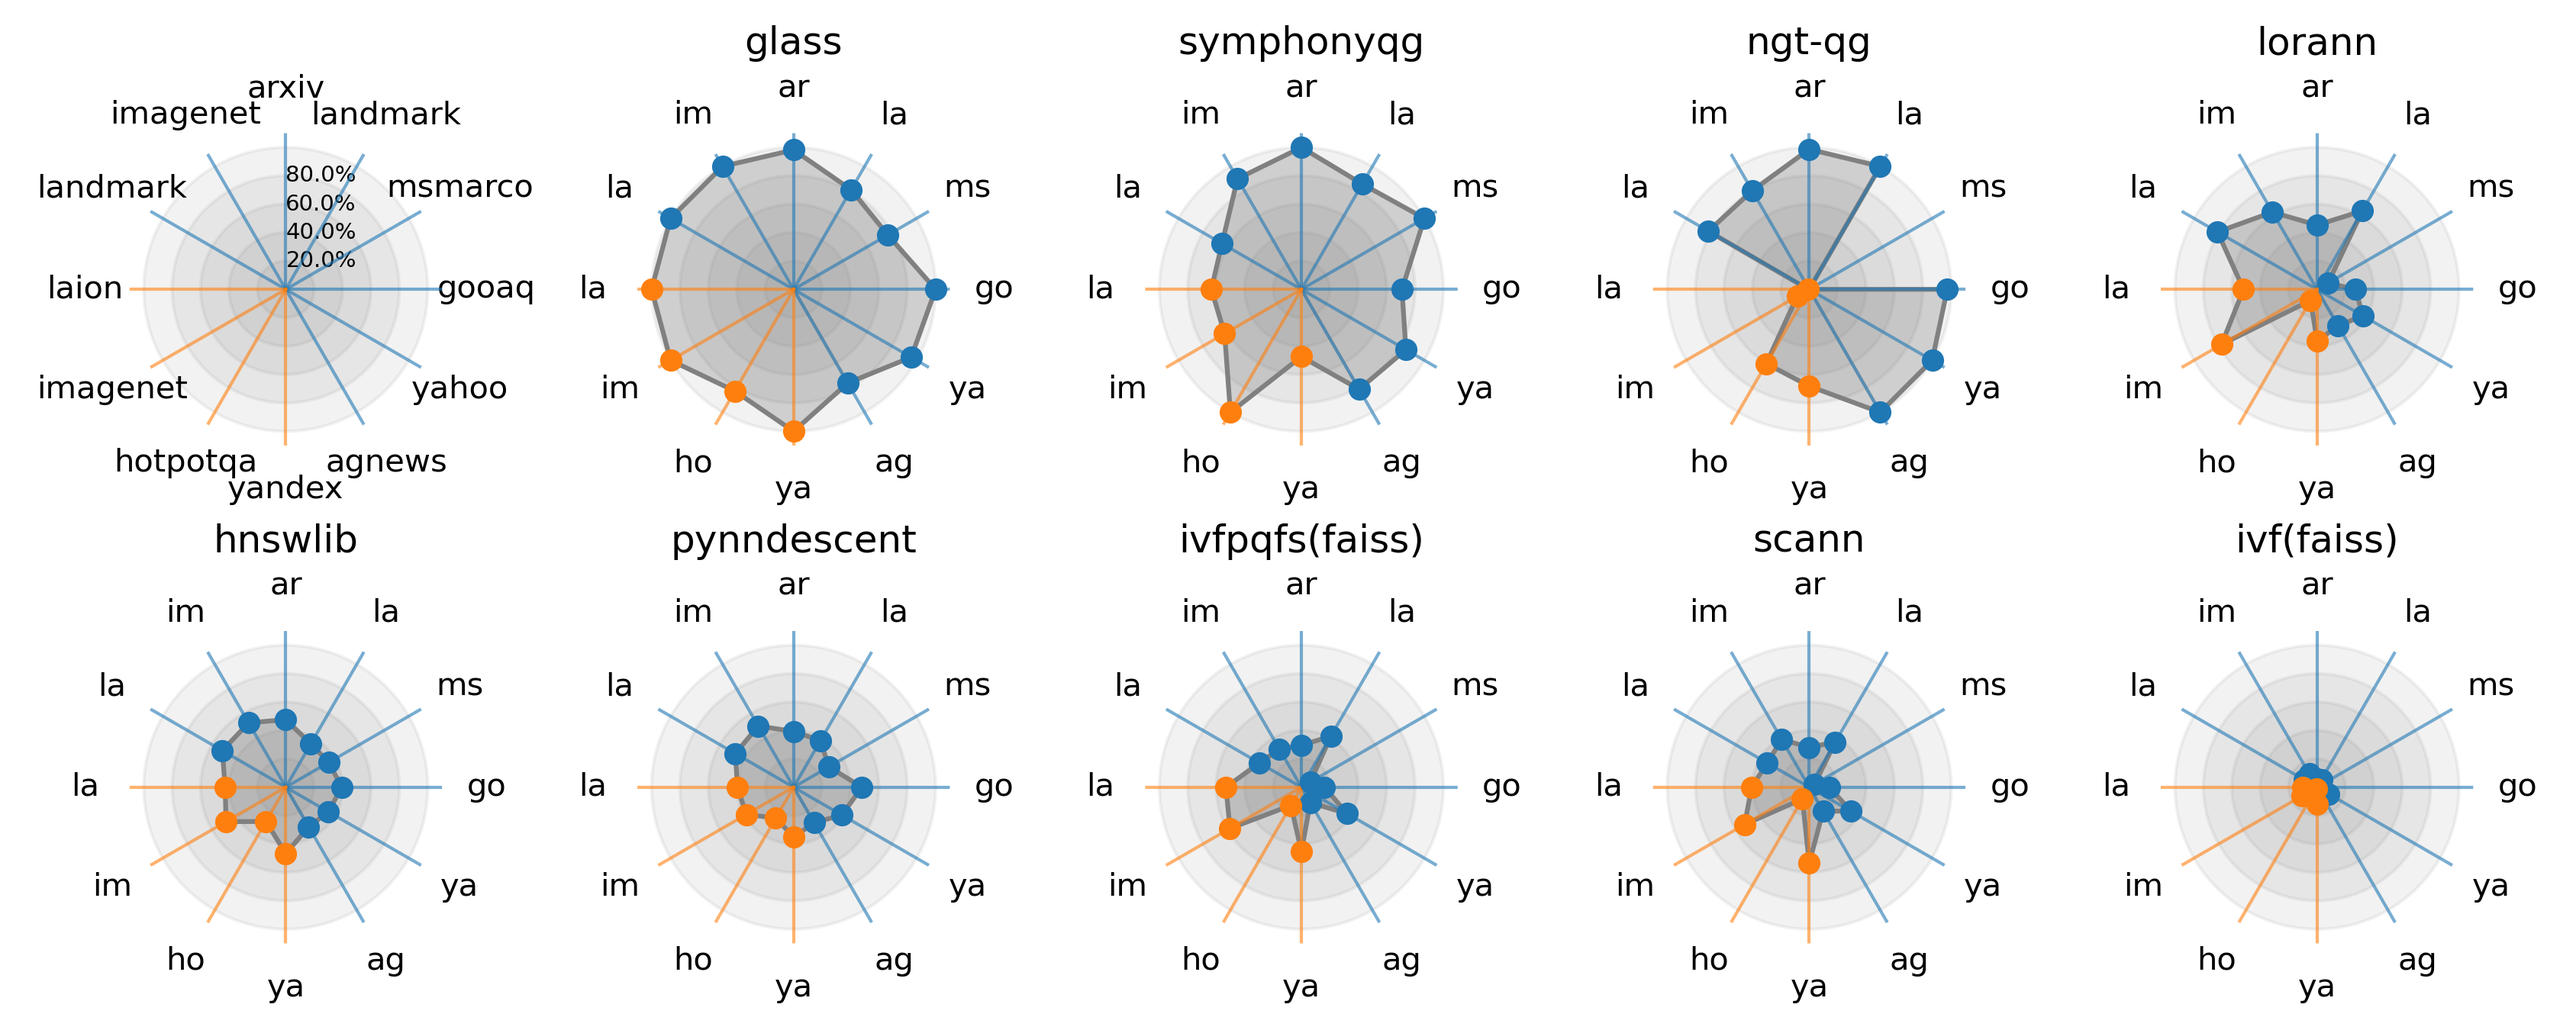
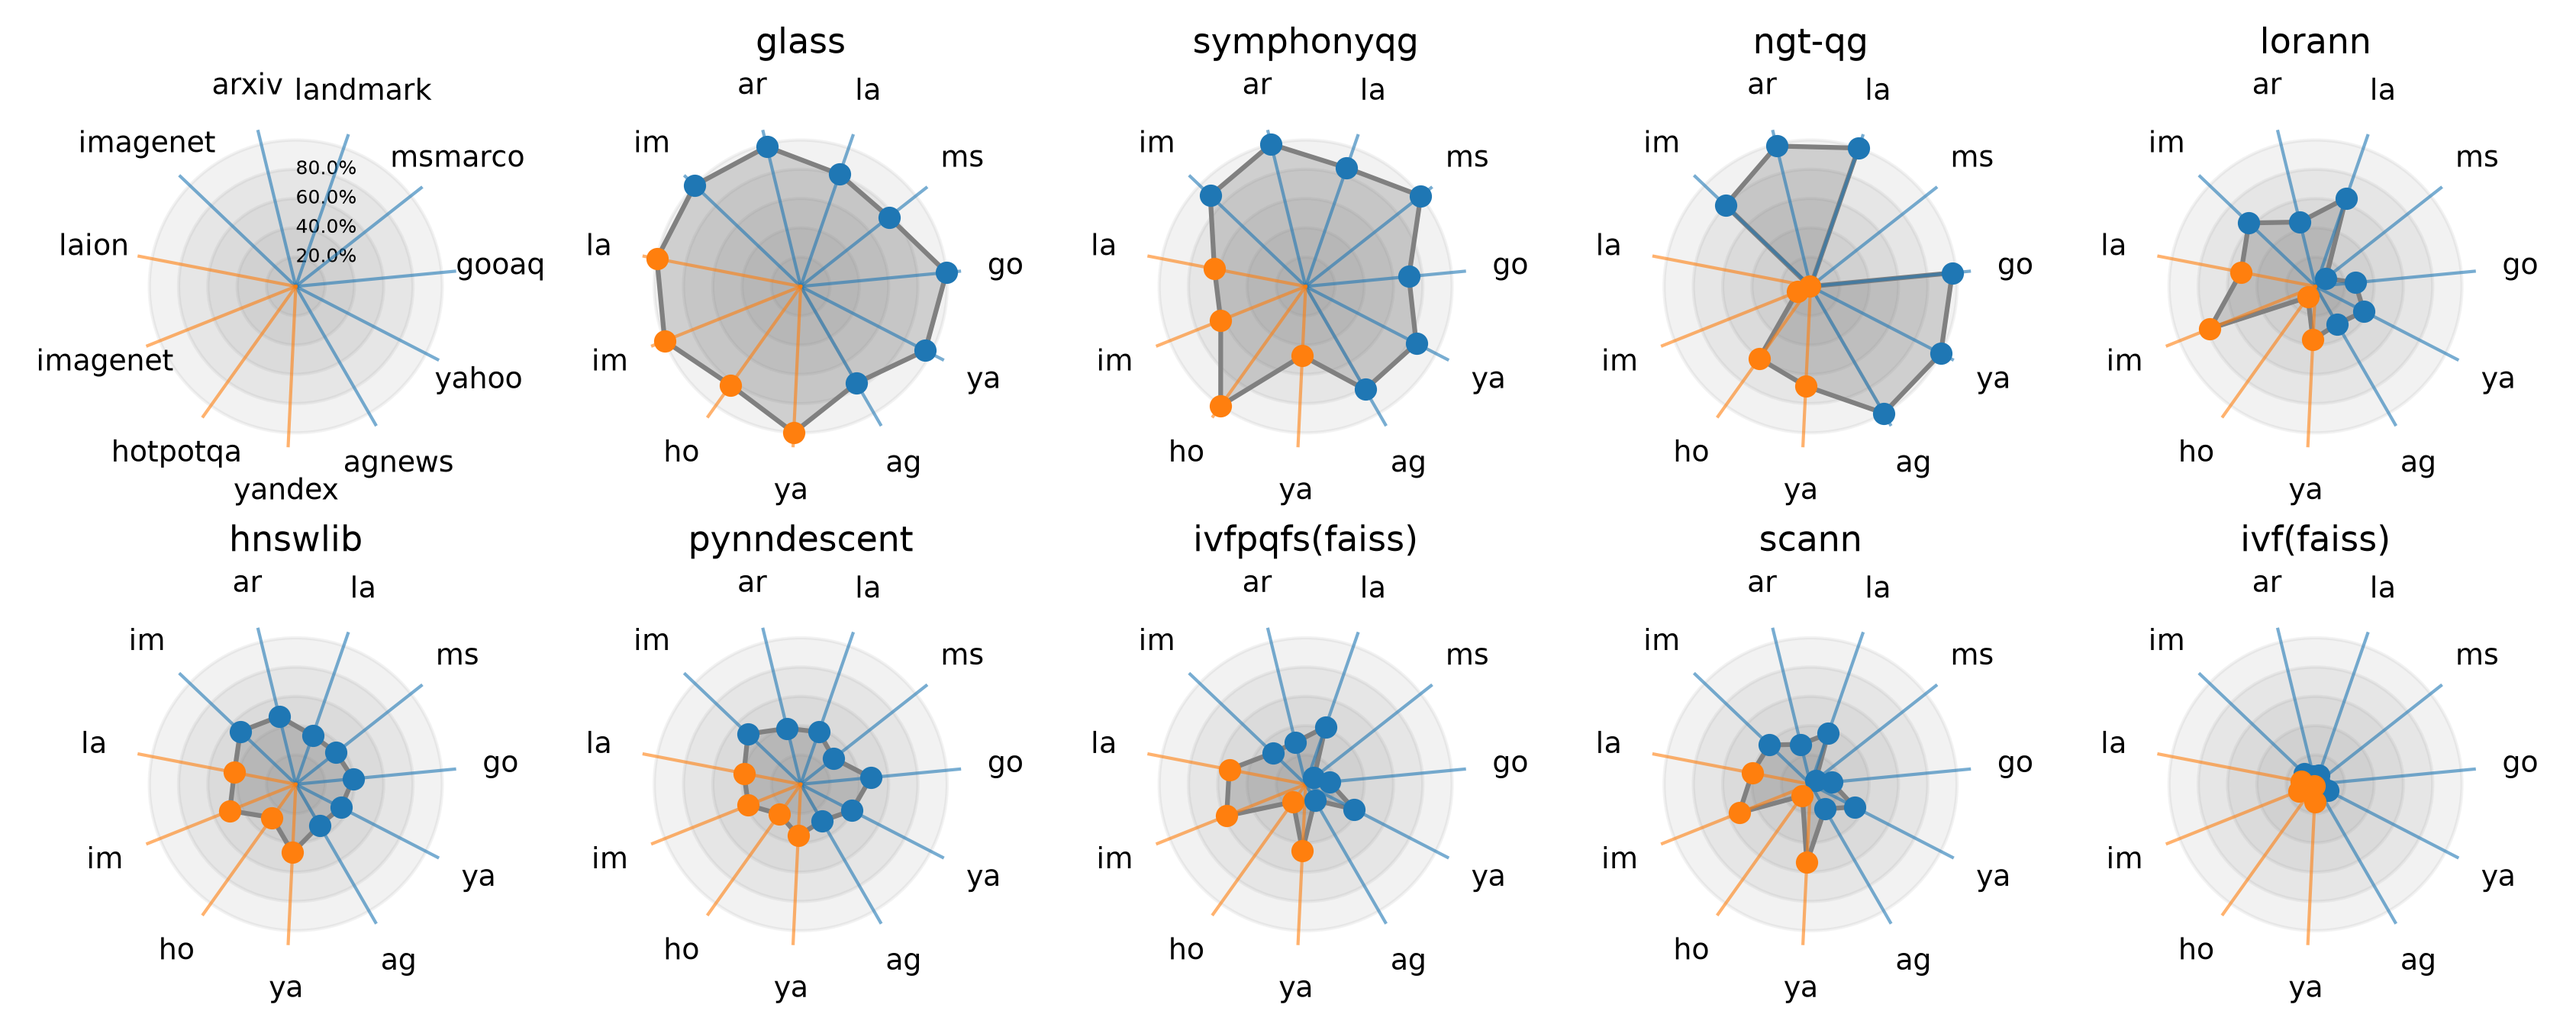
Add inaturalist-resnet

diff --git a/vibe/datasets.py b/vibe/datasets.py
@@ -273,8 +273,8 @@ def random_sample(X: numpy.ndarray, size: int = 1000, seed: int = 1) -> numpy.nd
 def extract_archive(archive_file, extract_dir, remove=False):
     print("Extracting %s..." % archive_file)
 
-    if archive_file.endswith(".tar"):
-        with tarfile.open(archive_file, "r") as tar:
+    if archive_file.endswith((".tar", ".tar.gz", ".tgz")):
+        with tarfile.open(archive_file, "r:*") as tar:
             tar.extractall(path=extract_dir)
     elif archive_file.endswith(".zip"):
         with zipfile.ZipFile(archive_file, "r") as zip_ref:
@@ -290,7 +290,7 @@ def extract_dir(path, target_dir, remove=False):
     archive_files = []
     for root, _, files in os.walk(path):
         for file in files:
-            if file.endswith((".zip", ".tar")):
+            if file.endswith((".zip", ".tar", ".tar.gz", ".tgz")):
                 archive_files.append(os.path.join(root, file))
 
     extract_fn = partial(extract_archive, extract_dir=target_dir, remove=remove)
@@ -972,6 +972,16 @@ def celeba_loader(transform):
     return ArchivedImageDataset(data_dir + fn, DATA_EXTRACT_DIR + "/celeba", transform)
 
 
+def inaturalist_mini_loader(transform):
+    data_dir = "./data/inaturalist_mini/"
+    fn = "train_mini.tar.gz"
+
+    os.makedirs(data_dir, exist_ok=True)
+    download("https://ml-inat-competition-datasets.s3.amazonaws.com/2021/train_mini.tar.gz", data_dir + fn)
+
+    return ArchivedImageDataset(data_dir + fn, DATA_EXTRACT_DIR + "/inaturalist_mini/extracted", transform)
+
+
 def landmark_loader(transform):
     data_dir = "./data/landmark/"
 
@@ -1054,6 +1064,11 @@ def imagenet(out_fn, embedding, metric="cosine"):
 def celeba(out_fn, embedding, metric="cosine"):
     embedding_func, transform = embedding()
     image_embedding_dataset(out_fn, celeba_loader(transform), embedding_func, None, embedding_func, metric)
+
+
+def inaturalist(out_fn, embedding, metric="cosine"):
+    embedding_func, transform = embedding()
+    image_embedding_dataset(out_fn, inaturalist_mini_loader(transform), embedding_func, None, embedding_func, metric)
 
 
 def landmark(out_fn, embedding, metric="cosine"):
@@ -1487,6 +1502,7 @@ DATASETS: Dict[str, Callable[[str], None]] = {
         out_fn, align_image_embedding, align_text_embedding(), metric="normalized"
     ),
     "imagenet-clip-512-normalized": lambda out_fn: imagenet(out_fn, clip_image_embedding, metric="normalized"),
+    "inaturalist-resnet-2048-cosine": lambda out_fn: inaturalist(out_fn, resnet_embedding),
     "laion-clip-512-normalized": lambda out_fn: laion(out_fn, "normalized"),
     "landmark-dino-768-cosine": lambda out_fn: landmark(out_fn, dino_embedding),
     "landmark-nomic-768-euclidean-uint8": lambda out_fn: uint8_dataset(out_fn, "landmark-nomic-768-normalized"),

diff --git a/README.md b/README.md
@@ -188,8 +188,10 @@ The results website can be run locally by following the instructions in the [web
 | [agnews-mxbai-1024-euclidean](https://huggingface.co/datasets/vector-index-bench/vibe/blob/main/agnews-mxbai-1024-euclidean.hdf5) | Text | 769,382 | 1024 | euclidean |
 | [arxiv-nomic-768-normalized](https://huggingface.co/datasets/vector-index-bench/vibe/blob/main/arxiv-nomic-768-normalized.hdf5) | Text | 1,344,643 | 768 | any |
 | [dpr-jina-768-normalized](https://huggingface.co/datasets/vector-index-bench/vibe/blob/main/dpr-jina-768-normalized.hdf5) | Text | 20,969,760 | 768 | any |
+| [glove-200-cosine](https://huggingface.co/datasets/vector-index-bench/vibe/blob/main/glove-200-cosine.hdf5) | Word | 1,192,514 | 200 | cosine |
 | [gooaq-distilroberta-768-normalized](https://huggingface.co/datasets/vector-index-bench/vibe/blob/main/gooaq-distilroberta-768-normalized.hdf5) | Text | 1,475,024 | 768 | any |
 | [imagenet-clip-512-normalized](https://huggingface.co/datasets/vector-index-bench/vibe/blob/main/imagenet-clip-512-normalized.hdf5) | Image | 1,281,167 | 512 | any |
+| [inaturalist-resnet-2048-cosine](https://huggingface.co/datasets/vector-index-bench/vibe/blob/main/inaturalist-resnet-2048-cosine.hdf5) | Image | 499,000 | 2048 | cosine |
 | [landmark-dino-768-cosine](https://huggingface.co/datasets/vector-index-bench/vibe/blob/main/landmark-dino-768-cosine.hdf5) | Image | 760,757 | 768 | cosine |
 | [landmark-nomic-768-normalized](https://huggingface.co/datasets/vector-index-bench/vibe/blob/main/landmark-nomic-768-normalized.hdf5) | Image | 760,757 | 768 | any |
 | [msmarco-qwen-1024-normalized](https://huggingface.co/datasets/vector-index-bench/vibe/blob/main/msmarco-qwen-1024-normalized.hdf5) | Text | 8,840,823 | 1024 | any |
@@ -218,7 +220,6 @@ Deprecated datasets will remain available, but their benchmark results will not 
 | [celeba-resnet-2048-cosine](https://huggingface.co/datasets/vector-index-bench/vibe/blob/main/celeba-resnet-2048-cosine.hdf5) | Image | 201,599 | 2048 | cosine |
 | [coco-nomic-768-normalized](https://huggingface.co/datasets/vector-index-bench/vibe/blob/main/coco-nomic-768-normalized.hdf5) | Text-to-Image | 282,360 | 768 | any |
 | [codesearchnet-jina-768-cosine](https://huggingface.co/datasets/vector-index-bench/vibe/blob/main/codesearchnet-jina-768-cosine.hdf5) | Code | 1,374,067 | 768 | cosine |
-| [glove-200-cosine](https://huggingface.co/datasets/vector-index-bench/vibe/blob/main/glove-200-cosine.hdf5) | Word | 1,192,514 | 200 | cosine |
 | [simplewiki-openai-3072-normalized](https://huggingface.co/datasets/vector-index-bench/vibe/blob/main/simplewiki-openai-3072-normalized.hdf5) | Text | 260,372 | 3072 | any |
 
 ### Algorithms
